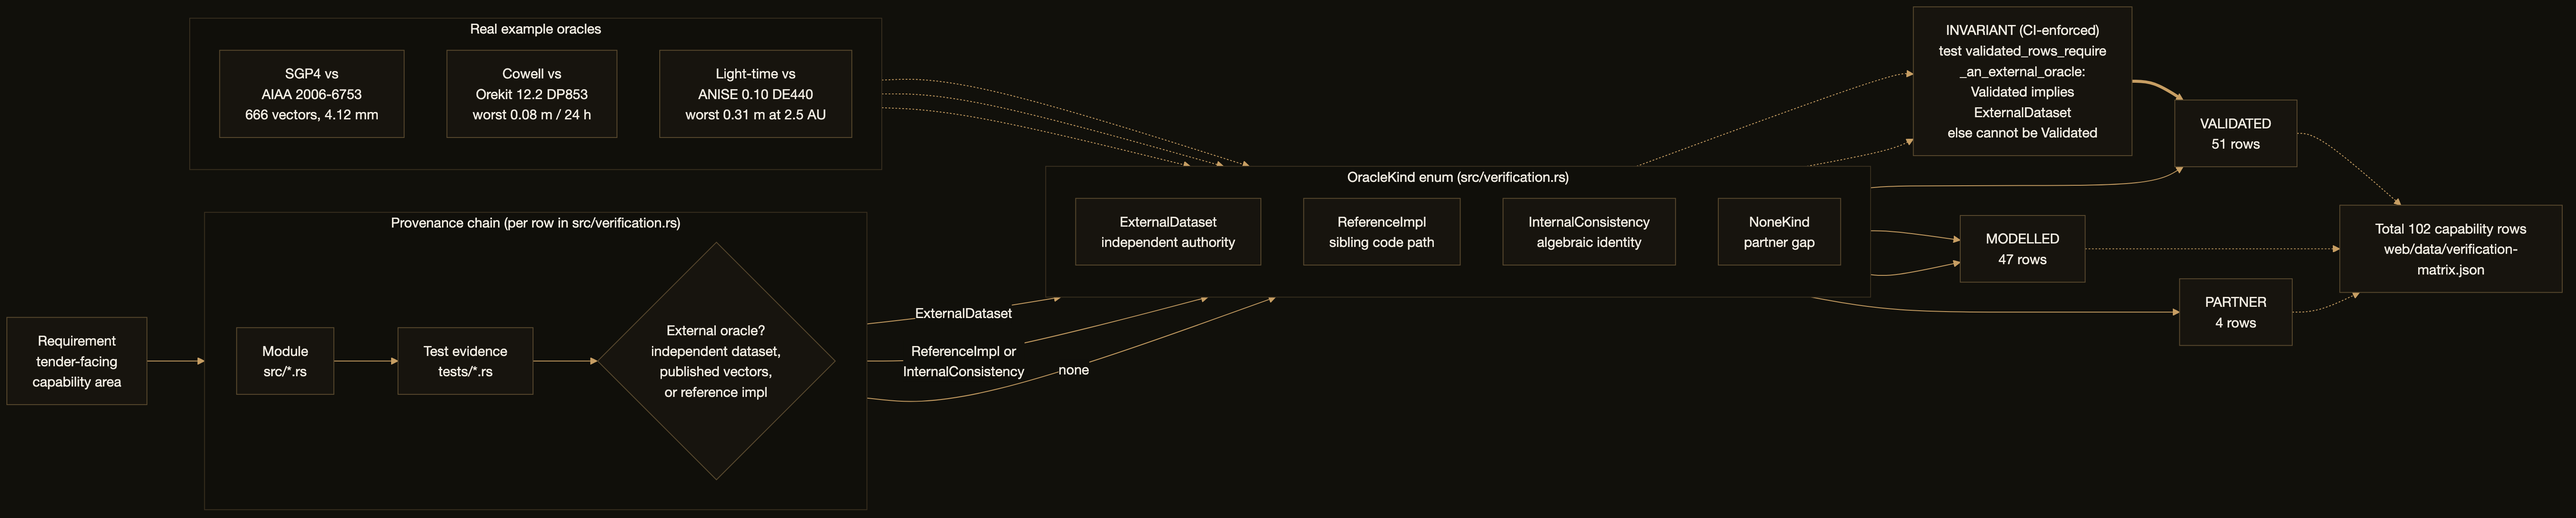
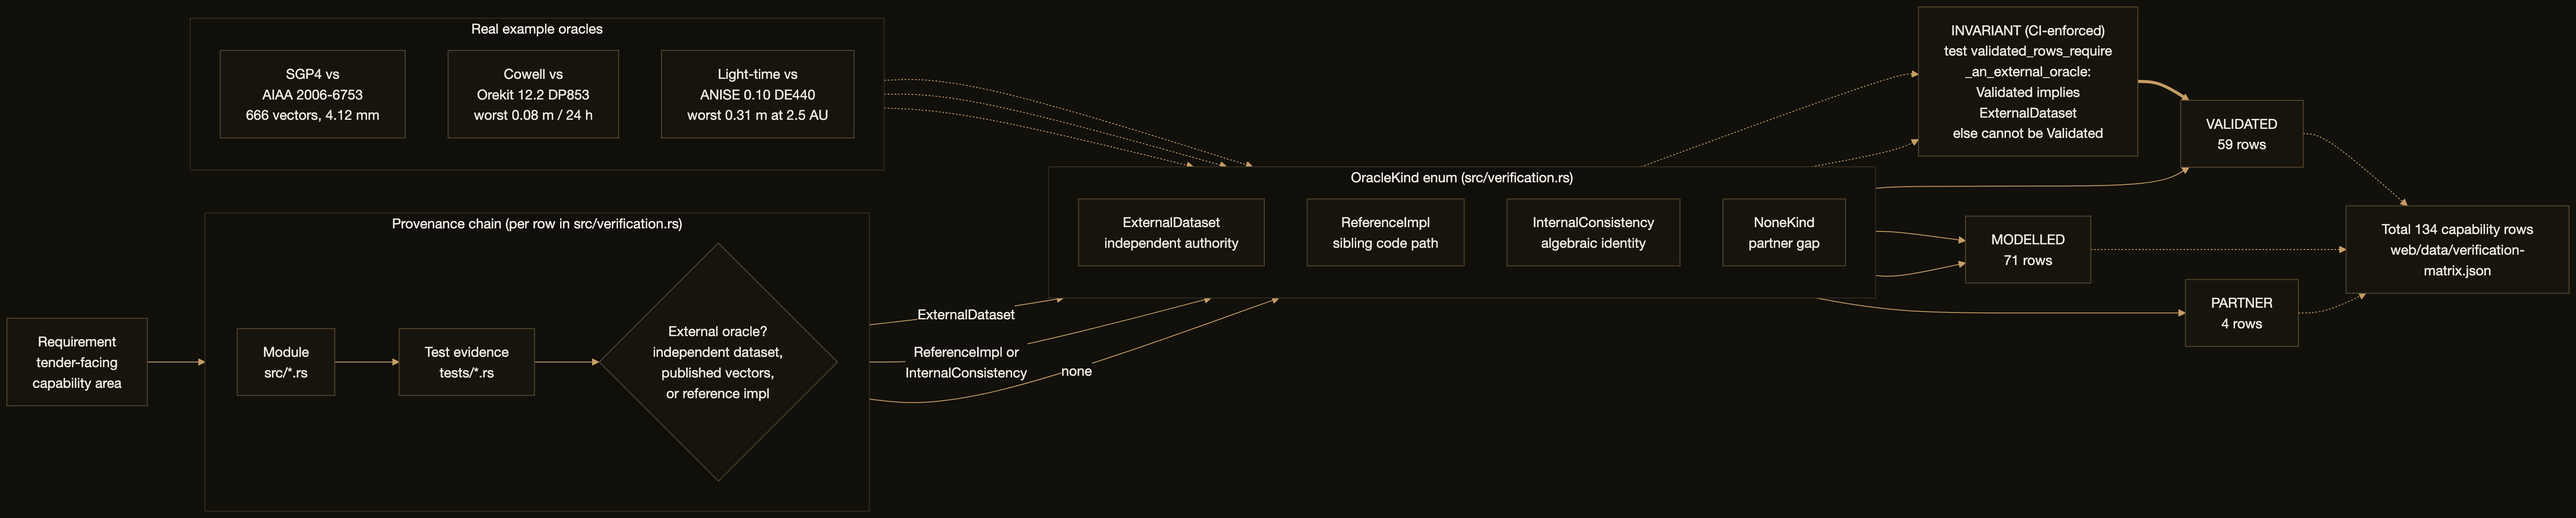
fix(docs,web): four published surfaces stated a matrix total of 102, and the provenance figure was stale on three of its four numbers
The verification matrix holds 134 rows (59 VALIDATED / 71 MODELLED / 4 PARTNER).
Four published surfaces said otherwise:

  README.md                                 "Full 102-row matrix"
  docs/diagrams/validation-provenance.mmd   "Total 102 capability rows"
  docs/assets/diagrams/...-provenance.svg   the same, rendered into the PNG
  web/app.js                                the ledger strapline's pre-hydration value

The figure was worse than a stale total. Rendering it and looking at it showed
VALIDATED 51 rows and MODELLED 47 rows as well — so the image the README embeds
contradicted the alt-text directly above it, which already read 134.

WHY THE EXISTING GUARDS STAYED GREEN

Three count guards already cover these files. All three assert that the CORRECT
string is PRESENT. That cannot catch a WRONG count elsewhere in the same file: a
stale sentence does not stop the right sentence also being there. The sibling
guard's own comments record it being extended twice after audits found strings it
had not pinned, each time by enumerating one more string — which leaves the next
unlisted site exactly as exposed. This was the next unlisted site.

So the new guard is written the other way round. It finds EVERY place a surface
states a matrix total or a per-status count, whatever the number is, and asserts
each equals the live matrix. A new site is caught when it appears, without anyone
remembering to add it. It also fails loudly if a label is reworded so the scanner
[…]

diff --git a/web/app.js b/web/app.js
@@ -1682,7 +1682,7 @@ const I18N = {
     "ledger.eyebrow": "Evidence ledger",
     "ledger.heading": "The complete validation matrix — every row, every proof",
     "ledger.intro":
-      'All <span id="ldg-total">102</span> capabilities, generated from ' +
+      'All <span id="ldg-total">134</span> capabilities, generated from ' +
       "<code>src/verification.rs</code> and pinned to it in CI. Each row links to the " +
       "<strong>test</strong> that enforces it, the <strong>module</strong> that " +
       "implements it, and any committed <strong>fixture/provenance</strong> — so every " +

diff --git a/tests/matrix_total_no_stale_count_doc_sync.rs b/tests/matrix_total_no_stale_count_doc_sync.rs
@@ -1,0 +1,249 @@
+// SPDX-License-Identifier: AGPL-3.0-only
+//! Regression guard: no published surface may state a matrix total OTHER than the live one.
+//!
+//! ## Why this exists, when three count guards already did
+//!
+//! `readme_validation_counts_doc_sync.rs` and `web_validation_counts_doc_sync.rs` pin
+//! counts by asserting that the CORRECT string is PRESENT. That catches a count which
+//! changed at a site the guard enumerates, and nothing else. It cannot catch a WRONG
+//! count sitting at a site nobody listed, because a stale sentence elsewhere in the file
+//! does not stop the right sentence from also being there.
+//!
+//! The record shows this is not hypothetical. The sibling guard's own doc comment
+//! describes being extended twice after audits found strings it had not pinned — and it
+//! was extended each time by enumerating one more string, which leaves the next
+//! unlisted site exactly as exposed. A third audit then found `README.md` still
+//! advertising a "102-row matrix" link, and the provenance diagram still rendering
+//! "Total 102 capability rows" into the PNG whose own README alt-text said 134: the
+//! figure a reader clicks contradicted the caption above it, and every presence-style
+//! assertion stayed green throughout.
+//!
+//! So this guard is written the other way round. It does not ask "is the right number
+//! here?" — it finds EVERY place a surface states a matrix total, whatever the number
+//! is, and asserts each one equals `verification_matrix().len()`. A new site is caught
+//! the moment it states a total, without anyone remembering to add it here.
+//!
+//! Scope: this pins the TOTAL only. The validated/modelled/partner splits keep their
+//! presence-style guards in the sibling files; this is the absence check they lack, not
+//! a replacement for them.
+
+use kshana::verification::verification_matrix;
+
+/// Every integer that immediately PRECEDES `marker`, e.g. `("Full 102-row matrix",
+/// "-row matrix")` yields `102`. Returns the numbers together with enough surrounding
+/// text to name the site in a failure message.
+fn counts_before(body: &str, marker: &str) -> Vec<(usize, String)> {
+    let mut out = Vec::new();
+    let bytes = body.as_bytes();
+    let mut from = 0usize;
+    while let Some(rel) = body[from..].find(marker) {
+        let at = from + rel;
+        // Walk back over the digits that end at `at`.
+        let mut start = at;
+        while start > 0 && bytes[start - 1].is_ascii_digit() {
+            start -= 1;
+        }
+        if start < at {
+            if let Ok(n) = body[start..at].parse::<usize>() {
+                out.push((n, context(body, start, at + marker.len())));
+            }
+        }
+        from = at + marker.len();
+    }
+    out
+}
+
+/// Every integer that sits BETWEEN `prefix` and `suffix`, e.g.
+/// `("Total 102 capability rows", "Total ", " capability rows")` yields `102`.
+fn counts_between(body: &str, prefix: &str, suffix: &str) -> Vec<(usize, String)> {
+    let mut out = Vec::new();
+    let mut from = 0usize;
+    while let Some(rel) = body[from..].find(prefix) {
+        let num_start = from + rel + prefix.len();
+        let rest = &body[num_start..];
+        let digits: String = rest.chars().take_while(|c| c.is_ascii_digit()).collect();
+        // The suffix must follow the digits immediately, or this is a different phrase
+        // that merely shares a prefix.
+        if !digits.is_empty() && rest[digits.len()..].starts_with(suffix) {
+            if let Ok(n) = digits.parse::<usize>() {
+                out.push((
+                    n,
+                    context(body, from + rel, num_start + digits.len() + suffix.len()),
+                ));
+            }
+        }
+        from = num_start.max(from + rel + 1);
+    }
+    out
+}
+
+/// A single-line excerpt around `[start, end)`, trimmed, for the failure message.
+fn context(body: &str, start: usize, end: usize) -> String {
+    let lo = body[..start].rfind('\n').map(|i| i + 1).unwrap_or(0);
+    let hi = body[end..]
+        .find('\n')
+        .map(|i| end + i)
+        .unwrap_or(body.len());
+    let line = body[lo..hi].trim();
+    if line.chars().count() > 140 {
+        let cut: String = line.chars().take(137).collect();
+        format!("{cut}...")
+    } else {
+        line.to_string()
+    }
+}
+
+#[test]
+fn no_published_surface_states_a_stale_matrix_total() {
+    let total = verification_matrix().len();
+
+    let readme = include_str!("../README.md");
+    let mmd = include_str!("../docs/diagrams/validation-provenance.mmd");
+    let svg = include_str!("../docs/assets/diagrams/validation-provenance.svg");
+    let app_js = include_str!("../web/app.js");
+    let index_html = include_str!("../web/index.html");
+
+    // (surface, every stated total found on it). Each entry is a phrase that, wherever it
+    // appears, is stating the size of the verification matrix.
+    let mut found: Vec<(&str, Vec<(usize, String)>)> = Vec::new();
+
+    // "[Full 134-row matrix →](#validation-at-a-glance)" and any sibling phrasing.
+    found.push(("README.md", counts_before(readme, "-row matrix")));
+    // The provenance diagram, in source and in the committed rendering the README embeds.
+    found.push((
+        "docs/diagrams/validation-provenance.mmd",
+        counts_between(mmd, "Total ", " capability rows"),
+    ));
+    found.push((
+        "docs/assets/diagrams/validation-provenance.svg",
+        counts_between(svg, "Total ", " capability rows"),
+    ));
+    // The ledger strapline's pre-hydration value. JS overwrites it from the JSON at
+    // runtime, so a reader with JS sees the right number — but this is what ships in the
+    // bundle, what a no-JS reader sees, and what a scraper indexes.
+    found.push((
+        "web/app.js",
+        counts_between(app_js, "<span id=\"ldg-total\">", "</span>"),
+    ));
+    found.push((
+        "web/index.html",
+        counts_between(index_html, "<span id=\"ldg-total\">", "</span>"),
+    ));
+
+    let mut stale: Vec<String> = Vec::new();
+    let mut checked = 0usize;
+    for (surface, hits) in &found {
+        for (n, ctx) in hits {
+            checked += 1;
+            if *n != total {
+                stale.push(format!(
+                    "  {surface}: states {n}, matrix holds {total}\n      {ctx}"
+                ));
+            }
+        }
+    }
+
+    assert!(
+        stale.is_empty(),
+        "A published surface states a matrix total that is not the live one \
+         (verification_matrix() = {total} rows):\n{}\n\n\
+         Update the number at each site above. If a figure is involved, regenerate the \
+         rendered SVG/PNG from its source as well — the README embeds the rendering, not \
+         the source, so fixing only the .mmd leaves the image a reader actually sees stale.",
+        stale.join("\n")
+    );
+
+    // A scanner that silently matches nothing would pass forever while every surface
+    // rotted. Pin that it actually found the sites it is here to police.
+    assert!(
+        checked >= 4,
+        "the stale-total scanner matched only {checked} stated totals; it is supposed to \
+         find at least one per published surface. A phrase was probably reworded — fix \
+         the scanner, do not lower this bound, or the guard becomes decorative."
+    );
+}
+
+/// The same absence check for the PER-STATUS counts.
+///
+/// The total was not the only stale number in the provenance diagram. The figure also
+/// carried "VALIDATED 51 rows" and "MODELLED 47 rows" against a matrix holding 59 and
+/// 71 — and it was found by *rendering the PNG and looking at it*, not by any test,
+/// because a number inside an image is invisible to a text guard and the figure's three
+/// status labels were pinned nowhere. Pin them at their text sources so the picture
+/// cannot drift again.
+#[test]
+fn no_published_surface_states_a_stale_status_count() {
+    use kshana::verification::VerificationStatus;
+    let m = verification_matrix();
+    let validated = m
+        .iter()
+        .filter(|i| i.status == VerificationStatus::Validated)
+        .count();
+    let modelled = m
+        .iter()
+        .filter(|i| i.status == VerificationStatus::Modelled)
+        .count();
+    let partner = m
+        .iter()
+        .filter(|i| i.status == VerificationStatus::PartnerOwned)
+        .count();
+
+    let mmd = include_str!("../docs/diagrams/validation-provenance.mmd");
+    let svg = include_str!("../docs/assets/diagrams/validation-provenance.svg");
+
+    // (surface, body, mermaid-source prefix, rendered-SVG prefix, expected count)
+    let cases = [
+        ("VALIDATED", validated),
+        ("MODELLED", modelled),
+        ("PARTNER", partner),
+    ];
+
+    let mut stale = Vec::new();
+    let mut checked = 0usize;
+    for (label, want) in cases {
+        for (surface, body, prefix, suffix) in [
+            (
+                "docs/diagrams/validation-provenance.mmd",
+                mmd,
+                format!("{label}<br/>"),
+                " rows".to_string(),
+            ),
+            (
+                "docs/assets/diagrams/validation-provenance.svg",
+                svg,
+                format!("<p>{label}<br />"),
+                " rows</p>".to_string(),
+            ),
+        ] {
+            let hits = counts_between(body, &prefix, &suffix);
+            if hits.is_empty() {
+                stale.push(format!(
+                    "  {surface}: no {label} count found at all (expected {prefix:?}N{suffix:?}) \
+                     — the label was reworded, so this guard stopped watching it"
+                ));
+            }
+            for (n, ctx) in hits {
+                checked += 1;
+                if n != want {
+                    stale.push(format!(
+                        "  {surface}: {label} states {n}, matrix holds {want}\n      {ctx}"
+                    ));
+                }
+            }
+        }
+    }
+
+    assert!(
+        stale.is_empty(),
+        "The provenance diagram states a per-status count that is not the live one \
+         (matrix: {validated} VALIDATED / {modelled} MODELLED / {partner} PARTNER):\n{}\n\n\
+         Fix the .mmd AND the .svg, then re-render the PNG — the README embeds the PNG, \
+         and rsvg-convert silently drops this diagram's <foreignObject> text, so use a \
+         browser engine to render it (see docs note on tools/render-diagram.sh).",
+        stale.join("\n")
+    );
+    assert_eq!(
+        checked, 6,
+        "expected 3 status counts × 2 surfaces = 6 pinned sites, matched {checked}"
+    );
+}

diff --git a/README.md b/README.md
@@ -59,7 +59,7 @@ citable table in [`docs/PROVENANCE.md`](docs/PROVENANCE.md).
 
 ### Validated against external oracles — every row CI-gated
 
-Each row is checked against an **independent external oracle** (real dataset, independent reference implementation, or published reference vectors) and re-checked in CI. [Full 102-row matrix →](#validation-at-a-glance)
+Each row is checked against an **independent external oracle** (real dataset, independent reference implementation, or published reference vectors) and re-checked in CI. [Full 134-row matrix →](#validation-at-a-glance)
 
 | | Capability | Result | External oracle |
 |---|---|---|---|
